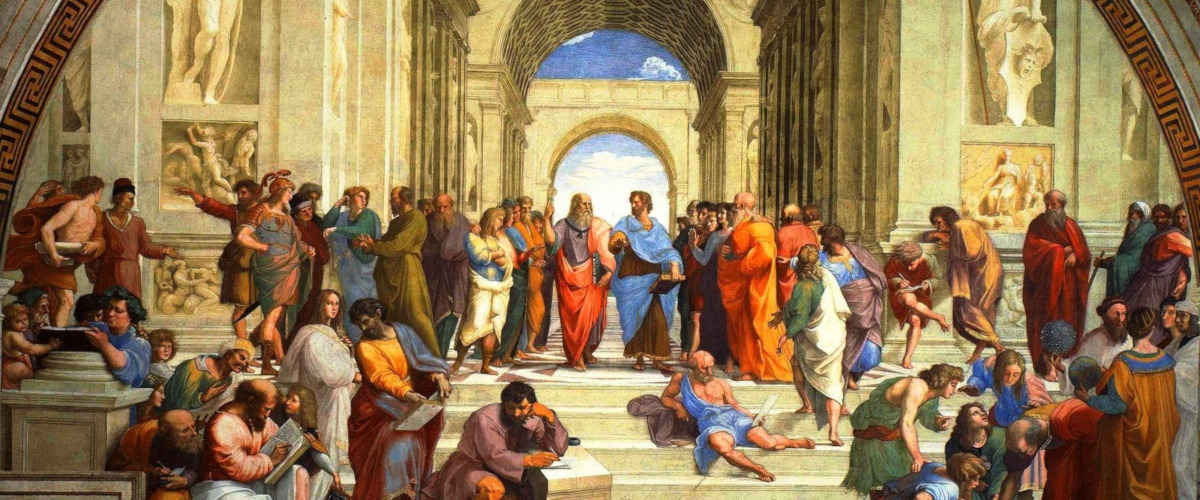
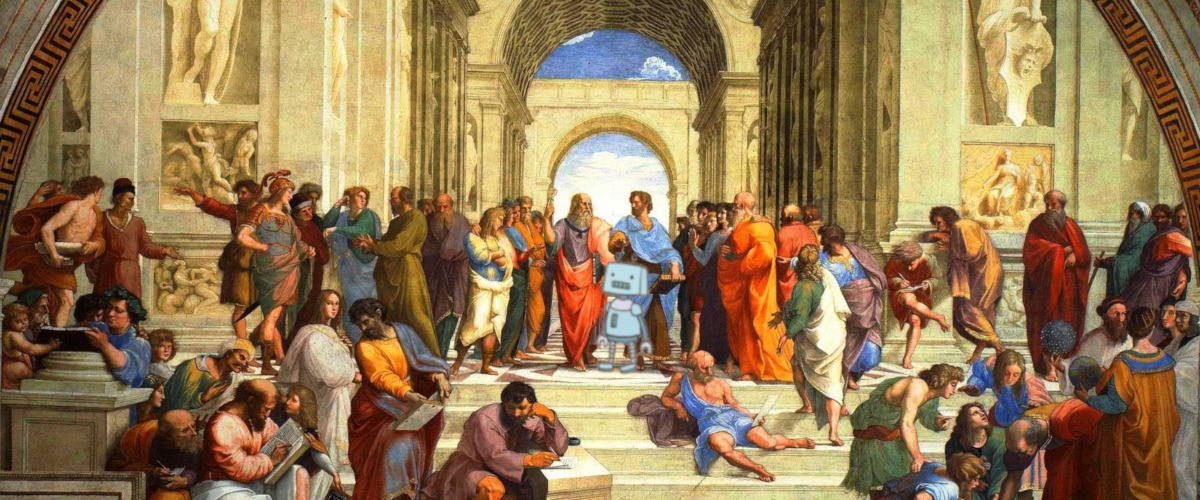
new covers

Changed region(s): [[0.4933, 0.51, 0.555, 0.75]]

diff --git a/tdls/pages/index.tsx b/tdls/pages/index.tsx
@@ -114,7 +114,7 @@ const Index = ({ allEvents }: { allEvents: AllEvents }) => {
 
           <div className="carousel-inner">
             <div className="carousel-item active">
-              <img className="d-block w-100" src="/static/images/socrates.png" alt="First slide" />
+              <img className="d-block w-100" src="/static/images/socrates.jpeg" alt="First slide" />
             </div>
             <div className="carousel-item">
               <img className="d-block w-100 carousel-taint" src="/static/images/slide_01.jpeg" alt="First slide" />

diff --git a/tdls/pages/index.scss b/tdls/pages/index.scss
@@ -31,7 +31,7 @@ main {
   }
 
   .carousel-taint {
-    filter: SATURATE(1.3) CONTRAST(1.2) brightness(0.8) blur(0.05vw);
+    filter: SATURATE(1.3) CONTRAST(1.2) brightness(0.8);
   }
 
   .scroll-button {
